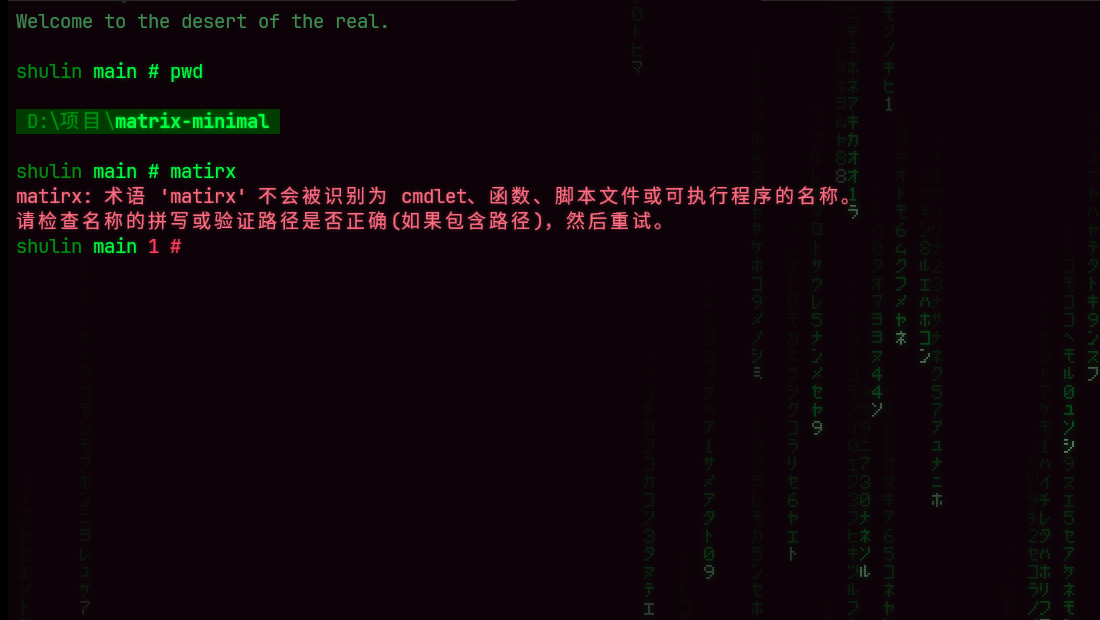
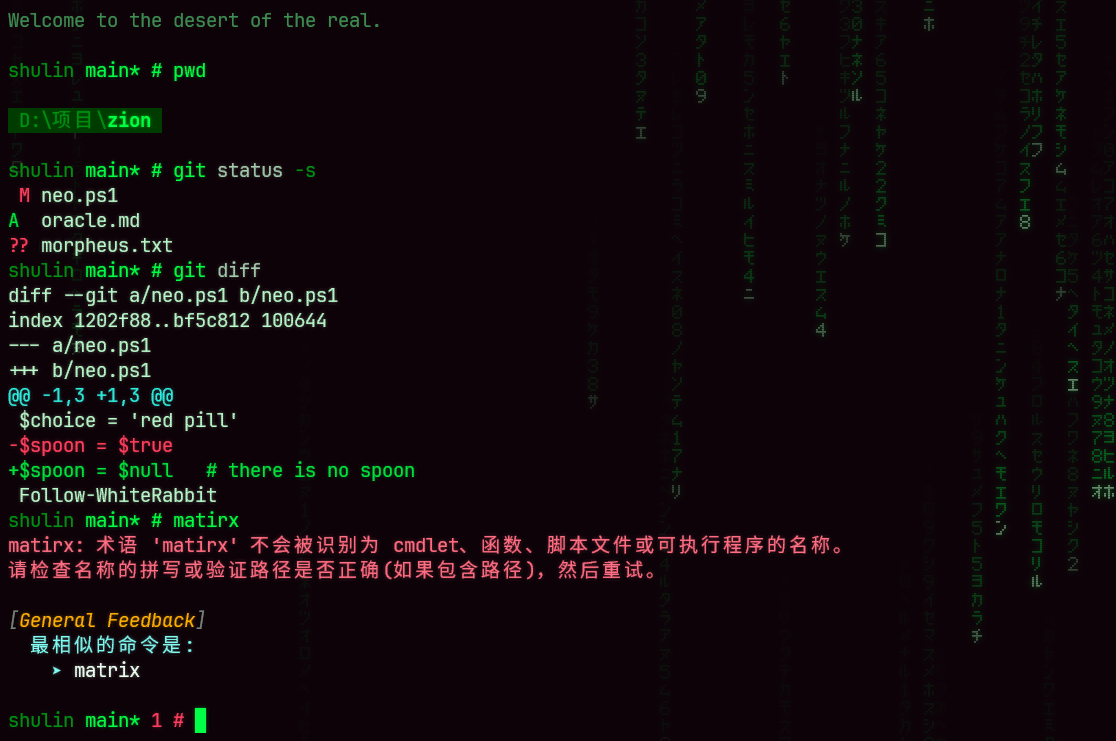
README: rewrite in plainer words, new demo GIF and screenshot
The old GIF predates the new output colours. The new one shows the intro,
the pwd decode, git status and git diff in the new colours, the glitch after
a typo, the "matrix" easter egg (the pills, the red pill rain, a line from the
film) and the moving rain of "rain". The screenshot is the frame after the
glitch. CLAUDE.md notes how the GIF was recorded and trimmed.

diff --git a/README.md b/README.md
@@ -2,64 +2,71 @@
 
 > Wake up, Neo... The Matrix has you.
 
-给 PowerShell + Windows Terminal 做的黑客帝国主题，基于 [Oh My Posh](https://ohmyposh.dev)。
+一个黑客帝国风格的 PowerShell 主题，搭配 Windows Terminal 使用，提示符基于 [Oh My Posh](https://ohmyposh.dev)。
 
-![演示：开场、pwd 解码、命令失败时的故障闪烁](docs/demo.gif)
+![演示：开场、pwd 解码、git 的输出配色、命令失败时的闪烁、matrix 彩蛋和 rain 的动态雨](docs/demo.gif)
 
-## 有什么
+## 效果
 
-- **极简提示符**：名字、git 分支（`*` 有未提交的改动，`+N` / `-N` 领先 / 落后远端）、失败时的退出码、`>`（管理员窗口是 `#`）。命令运行超过 2 秒时，右边才显示耗时。
-- **雨幕背景**：一帧静态的片假名代码雨，右边密、越往左越淡，底部也会变淡，不挡你的命令。安装时按你的屏幕生成，不占 GPU。
-- **磷光屏**：文字带一点荧光微光，外加细扫描线。像素着色器只在画面变化时运行，平时不耗资源。
-- **开场**：每开一个新窗口或标签页，先打出 "Wake up, 你的名字..."，接着下一阵代码雨，最后停在 "Welcome to the desert of the real."。按任意键跳过，随时运行 `Show-MatrixIntro` 重播；嫌烦可以改成每天只播一次（见下方自定义）。
-- **pwd 解码**：单独输入 `pwd` 时，路径先是一串乱跳的片假名，再逐字解码成真实路径，以高亮条显示。
-- **故障闪烁**：命令失败后，提示符会红绿错位地抖一下。
-- **彩蛋**：输入 `matrix`，墨菲斯会让你选药丸。红色药丸带你进入全屏代码雨，按任意键醒来，并留下一句电影台词；蓝色药丸则让故事到此结束。
-- **会动的雨**：输入 `rain`，会新开一个 "Matrix Rain" 标签页，里面的代码雨一直在下；别的标签页还是静态雨幕。动态雨会持续占用显卡（切到别的标签页也不会停），看够了关掉那个标签页就行。
-- **输出配色**：提示符、输入和雨幕是矩阵绿；命令输出的正文是淡磷光色，其余颜色各有含义：红色（红药丸）是删除和错误，绿色是新增和成功，琥珀色是警告和 commit 号，青色是 diff 的 `@@` 和详细信息，还有蓝药丸的蓝。git、npm、pytest 这些工具的输出因此一眼就能分清；`ls` 里图片、音视频是紫色，压缩包是红色。
-- **不污染别的程序**：`ls` 的目录名不再变成蓝色色块；运行 `claude`、`codex` 时自动换回它们自己的配色。
+- 提示符：
+  
+  - 名字、git 分支，最后是 `>`，管理员窗口里换成 `#`。
+  
+  - 分支后面的 `*` 表示有未提交的改动，`+N`、`-N` 表示领先或落后远端几个提交。
+  
+  - 上一条命令失败时会显示退出码，运行超过两秒的命令会在右侧显示耗时。
+
+- 代码雨背景，其中雨集中在右侧，往左、往下逐渐变淡，主要是考虑到大多数人的使用习惯是从左到右输入命令。
+
+- 文字默认带一层淡淡的荧光和细扫描线，参考了老式磷光显示器的风格。
+
+- 动画开场：默认每次新开一个标签页都会执行动画，屏幕上逐字打出 "Wake up, your name..."，接着下一阵代码雨，最后停在 "Welcome to the desert of the real."。按任意键可以跳过，运行 `Show-MatrixIntro` 可以重播，嫌烦也可以改成每天只放一次。
+
+- `pwd` 命令特效：输出的路径会先变成一串乱跳的片假名，再逐字解码出来。
+
+- 命令失败特效：提示符会红绿错位地抖一下。
+
+- `matrix` 命令特效：墨菲斯会让你选药丸，红色药丸带你进入全屏代码雨，按任意键醒来；蓝色药丸，故事就到此结束。
+
+- 动态代码雨请运行 `rain`，这会新开一个 "Matrix Rain" 标签页，该标签页的背景将会使用动态的代码雨。
 
 ![截图](docs/screenshot.png)
 
 ## 安装
 
-在 PowerShell 里运行（Windows PowerShell 5.1 和 PowerShell 7 都可以）：
+在 PowerShell 里运行下面这行，Windows PowerShell 5.1 和 PowerShell 7 都可以：
 
 ```powershell
 irm https://raw.githubusercontent.com/202030481266/matrix-minimal/main/install.ps1 | iex
 ```
 
-安装时会询问你的名字（显示在提示符和开场白里）。装完后，**关掉所有 PowerShell 窗口重新打开**。
+安装时需要输入名字，它会出现在提示符和开场白里。**装完之后关掉所有 PowerShell 窗口再重新打开，设置才会生效**。
 
-安装脚本会做下面这些事。改动之前都会备份，卸载时按原来的值恢复：
+安装脚本做了下面几件事。每处改动之前都会先备份，卸载时按原样恢复。
 
-1. 没有 oh-my-posh 时，下载官方独立版到 `%LOCALAPPDATA%\Programs\oh-my-posh\bin`（校验 SHA256 和数字签名），并加进用户 PATH。
-2. 把主题文件放到 `~\.config\omp`，按你的屏幕生成背景图。
-3. 在 Windows PowerShell 和 PowerShell 7 的 profile 里各加两行加载主题。如果执行策略是 Restricted，会改成 RemoteSigned（仅当前用户），否则 profile 根本不会运行。
-4. Windows Terminal：加入 "Matrix Minimal" 配色，只给 PowerShell 的配置换上配色、雨幕背景和磷光效果；cmd、WSL 保持原样。
+1. 如果没有 oh-my-posh，从官方下载独立版到 `%LOCALAPPDATA%\Programs\oh-my-posh\bin`，校验 SHA256 和数字签名后加入用户 PATH。
+2. 把主题文件复制到 `~\.config\omp`，并按屏幕尺寸生成背景图。
+3. 在 Windows PowerShell 和 PowerShell 7 的 profile 里各加两行来加载主题。如果执行策略是 Restricted，会改为 RemoteSigned（只针对当前用户），否则 profile 根本不会运行。
+4. 在 Windows Terminal 里加入 "Matrix Minimal" 配色，并给 PowerShell 的配置换上配色、背景和磷光效果。cmd、WSL 等其他配置保持原样。
 
-也可以下载 zip，解压后在文件夹里运行 `powershell -ExecutionPolicy Bypass -File .\install.ps1`。
+也可以 clone 仓库或下载 zip，在目录里运行 `powershell -ExecutionPolicy Bypass -File .\install.ps1`。以后要更新，`git pull` 之后再运行一次即可。
 
-### 要求
+### 环境要求
 
-- Windows 10 / 11
-- [Windows Terminal](https://aka.ms/terminal)：配色、雨幕和磷光效果都依赖它。没有的话，提示符和动效照样能用。
-- 显示缩放为 100% 时背景最清晰；其他缩放比例下，窗口最大化时最清晰。
+- Windows 10 或 11
+- [Windows Terminal](https://aka.ms/terminal)：配色、背景和磷光效果都依赖它。没有的话，提示符和动效照样可以用。
+- 显示缩放为 100% 时背景最清晰；其他缩放比例下，把窗口最大化效果最好。
 
 ## 自定义
 
-| 想改什么 | 怎么做 |
-|---|---|
-| 名字 | 改 `~\.config\omp\matrix-minimal.omp.json` 里的 `var.Name` |
-| 开场频率、关掉某个动效 | 在 `$PROFILE` 里、加载主题的那两行**之前**加上 `$MatrixFx = @{ Intro = 'daily'; Decode = $true; Glitch = $true }`。Intro 可选 `always`（每个新窗口，默认）、`daily`（每天一次）、`off` |
-| 动画没出现 | 运行 `Test-MatrixMinimal`，`intro` 那几行会说明原因（钩子没装上、今天已播过、出错信息等） |
-| 雨的疏密、亮度，或者换一种排布 | 改 `~\.config\omp\matrix-rain-bg.ps1` 顶部的 "Tweak me"，运行 `pwsh -File ~\.config\omp\matrix-rain-bg.ps1 -Seed 7`，然后重开标签页 |
-| 磷光的强弱 | 改 `~\.config\omp\matrix-phosphor.hlsl` 顶部的参数，保存后立即生效 |
-| 想要会动的代码雨 | 运行 `rain`，新开一个下雨的标签页。第一次运行时会在 Windows Terminal 里加一个 "Matrix Rain" 配置，以后也可以从标签栏的 + 菜单打开。关掉这个标签页，雨就停了（开着时会一直占用 GPU） |
-| 输出的颜色 | 改 Windows Terminal 设置里的 "Matrix Minimal" 配色（16 色加前景色；重新安装会覆盖）。PowerShell 7 的详细信息、`ls` 等颜色在 `$PSStyle` 里，在 `$PROFILE` 里、加载主题之前设置的值会保留 |
-| 哪些程序使用自己的配色 | `$MatrixNativeApps = 'claude', 'codex', 'nvim'`（同样放在加载主题之前） |
-
-运行 `Test-MatrixMinimal` 可以自检。
+| 想调整的          | 做法                                                                                                                                                  |
+| ------------- | --------------------------------------------------------------------------------------------------------------------------------------------------- |
+| 名字            | 修改 `~\.config\omp\matrix-minimal.omp.json` 里的 `var.Name`                                                                                            |
+| 开场频率，或者关掉某个动效 | 在 `$PROFILE` 里加载主题的两行之前写上 `$MatrixFx = @{ Intro = 'daily'; Decode = $true; Glitch = $true }`。`Intro` 可以是 `always`（默认，每个新标签页都放）、`daily`（每天一次）或 `off` |
+| 背景雨的疏密、亮度和排布  | 修改 `~\.config\omp\matrix-rain-bg.ps1` 开头 "Tweak me" 部分的参数，运行 `pwsh -File ~\.config\omp\matrix-rain-bg.ps1 -Seed 7` 重新生成，再新开一个标签页                    |
+| 磷光的强弱         | 修改 `~\.config\omp\matrix-phosphor.hlsl` 开头的参数，保存后立即生效                                                                                               |
+| 输出的配色         | 在 Windows Terminal 的设置里修改 "Matrix Minimal" 配色，重新安装时会被覆盖。PowerShell 7 自己的输出颜色在 `$PSStyle` 里，在 `$PROFILE` 中加载主题之前设置的值会保留                              |
+| 保留原生配色的程序     | 在加载主题之前设置 `$MatrixNativeApps = 'claude', 'codex', 'nvim'`                                                                                           |
 
 ## 卸载
 
@@ -67,7 +74,7 @@ irm https://raw.githubusercontent.com/202030481266/matrix-minimal/main/install.p
 powershell -ExecutionPolicy Bypass -File "$HOME\.config\omp\uninstall.ps1"
 ```
 
-profile 里只会删除安装时加的那几行；Windows Terminal 的设置会恢复成安装前的值（`rain` 加的 "Matrix Rain" 配置也会删掉）；如果 oh-my-posh 是安装时下载的，卸载时会询问是否一并删除。
+卸载只会删掉安装时加进 profile 的那几行，Windows Terminal 的设置会还原成安装前的样子，`rain` 添加的 "Matrix Rain" 配置也会一并删除。如果 oh-my-posh 是安装时下载的，卸载时会问你要不要一起删掉。
 
 ## 致谢
 

diff --git a/CLAUDE.md b/CLAUDE.md
@@ -37,12 +37,20 @@
 - **Windows Terminal**：settings.json 会热加载。着色器和背景图按配置（profile）生效，**不能按标签页设置**，也没有 VT 序列能改。设了背景图时，背景本身是透明的，着色器拿到的纹理是预乘 alpha（`matrix-rain.hlsl` 已按这个处理）。着色器不覆盖 padding 区域，所以 phosphor 的 VIGNETTE 默认为 0（否则边缘会出现接缝）。setup 只修改 name/source/commandline 匹配 `PowerShell|pwsh` 的配置，并跳过 Matrix Rain 的 GUID。
 - 端到端测试：用 `wt -w mmtest nt -p <guid>` 开一个单独的窗口，别动用户正在用的窗口。标签页里 shell 的父进程是 WindowsTerminal.exe，据此找到 PID，`AttachConsole` + `WriteConsoleInput` 注入按键（`-` 键是 VK 0xBD，不是 0x2D；开场动画会吞掉第一个键，先确认 shell 已经能执行命令），用 `PrintWindow(PW_RENDERFULLCONTENT)` 截图对比。GPU 用 `Get-Counter '\GPU Engine(pid_<WT pid>_*)\Utilization Percentage'`（这台机子的计数器名是英文）。`*>` 重定向在 PS5 写 UTF-16、在 PS7 写 UTF-8，用 `[IO.File]::ReadAllText` 读。**判断颜色要对截图做像素采样**，看缩略图会看走眼（曾经把 `#00FF41` 看成淡色）。预览配色可以在标签页里用 OSC 4/10 临时换调色板（结果是准的），也可以把配色写进 `%LOCALAPPDATA%\Microsoft\Windows Terminal\Fragments\<名字>\*.json`，然后用 `wt nt --colorScheme <名字>` 打开。管道会让 git 关掉颜色，要加 `-c color.ui=always`。`-File` 必须传绝对路径。不要调用 `python3`（Windows 应用商店的占位程序会卡住）。
 
+## README 的演示图
+
+`docs/demo.gif` 是 2026-10-16 重录的（38 秒，2.3 MB；名字 shulin，在临时仓库 `D:\项目\zion` 里录）：开场 → `pwd` → `git status -s` → `git diff` → 敲错 `matirx` 触发闪烁 → `matrix`（菜单、按 `r`、全屏代码雨、按空格醒来、台词）→ `rain`（切到 Matrix Rain 标签页，录约 2.5 秒动态雨后结束，接着循环）。`docs/screenshot.png` 是敲错命令后闪烁结束的那一帧（能看到 git 的配色）。两段整屏的雨占了 GIF 的大部分体积；改用 128 色只小 8%，所以保留 256 色。录制方法：
+- 打开一个单独的 WT 窗口：`wt -w mmrec --size 100,29 nt -p <pwsh guid> -d <仓库> pwsh.exe -NoLogo`（加 `-NoLogo` 去掉版本横幅）。用一个后台线程每 50 ms 调一次 `PrintWindow` 存 PNG，用 `WriteConsoleInput` 逐字"打字"。名字是临时改 `var.Name` 实现的，录完要按原字节写回去。
+- 这台机子开标签页后约 4 秒才开始放开场。**开场里按任何键都会跳过开场，而且这个键会被吞掉**，所以要等开场完全结束再输入。
+- 剪辑：裁掉标签栏和边框（终端区域从 x=8、y=41 开始，宽 1116）；从第一行开场文字出现前几帧开始；相同的帧合并；光标闪烁（A、B、A 这种只差光标的循环）合并成一帧；每次停顿最长 2.2 秒。结尾是动态雨，所以裁掉最后 1.2 秒，最后一帧只停 80 ms，接着从头循环。然后用 ffmpeg 的 concat 列表带上每帧时长，`palettegen` / `paletteuse=dither=none:diff_mode=rectangle` 生成 GIF（约 500 KB）。
+- PS7.4 以后，敲错命令会出现 `[General Feedback]` 提示（"最相似的命令是 matrix"），这是 PowerShell 自带的，录进去了。
+
 ## 用户的偏好
 
 - **不要处理 profile 加载慢的问题**：用户说那台机子本来就慢，不是这个主题造成的，他自己解决。
 - 动效要克制，不能影响性能（因此放弃了常驻的动态雨，改成静态雨幕 + 磷光）。
 - 不能污染别的程序的配色（claude、codex 保留原生主题）。
-- 动手大改之前先说方案；推送前确认。
+- 动手大改之前先说方案。**提交和推送不用再问**（2026-10-17 用户明确授权，限本项目）。
 
 ## 输出配色（2026-10-16，用户在 A/B/C/D 四个候选里选了 A）
 
